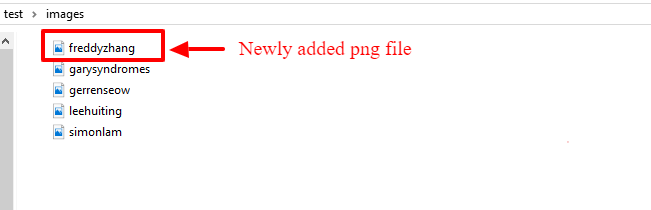
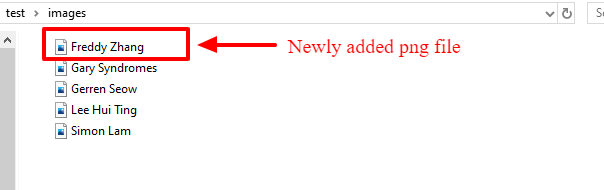
Rebuild pages at 786788541eb873291fc63282420e0648fbc412f4

Changed region(s): [[0.0, 0.0, 0.9536, 0.7368], [0.0, 0.1842, 0.0298, 1.0], [0.9834, 0.0, 1.0, 0.1316]]

diff --git a/DeveloperGuide.html b/DeveloperGuide.html
@@ -595,6 +595,9 @@ The feature comprises of commands namely,</p>
 <li>
 <p><code>FindCommand</code> - Finds information of the required student</p>
 </li>
+<li>
+<p><code>ClearCommand</code> - Deletes all student details from the student list</p>
+</li>
 </ul>
 </div>
 <div class="paragraph">
@@ -772,6 +775,29 @@ method.</p>
 </ol>
 </div>
 </div>
+</div>
+<div class="sect3">
+<h4 id="student-clear-command"><a class="link" href="#student-clear-command">7.1.5. Student Clear command</a></h4>
+<div class="sect4">
+<h5 id="implementation-6"><a class="link" href="#implementation-6">Implementation</a></h5>
+<div class="paragraph">
+<p>The following is a detailed explanation of the operations which <code>StudentFindCommand</code> performs.</p>
+</div>
+<div class="olist arabic">
+<ol class="arabic">
+<li>
+<p>After the successful parsing of the user input, the <code>StudentClearCommand#execute(Model model)</code> method is called.</p>
+</li>
+<li>
+<p>The <code>Model#setTeaPet(ReadOnlyTeaPet teaPet)</code> method is then called which triggers the <code>TeaPet#resetData(ReadOnlyTeaPet newData)</code> method
+and creates a brand new student list to replace the old one.</p>
+</li>
+<li>
+<p>A new <code>CommandResult</code> will be returned with the success message.</p>
+</li>
+</ol>
+</div>
+</div>
 <div class="sect4">
 <h5 id="design-considerations"><a class="link" href="#design-considerations">Design Considerations</a></h5>
 
@@ -785,8 +811,8 @@ method.</p>
 <div class="ulist">
 <ul>
 <li>
-<p>Current implementation of the commands follows the command word syntax, followed by the arguments necessary for execution.
-For example, <code>student add/edit/delete/find/refresh</code>.</p>
+<p>Current implementation of the feature follows just the command word syntax
+For example, <code>student</code>.</p>
 </li>
 </ul>
 </div>
@@ -796,9 +822,8 @@ For example, <code>student add/edit/delete/find/refresh</code>.</p>
 <div class="ulist">
 <ul>
 <li>
-<p>We considered using a whole new command, <code>student refresh</code> to solely refresh and update images of the students. However, we realised
-that it would be more convenient for the user if we just add this functionality into the <code>student</code> command instead as it is able to
-both update the images and display the student list concurrently.</p>
+<p>We considered using the forward slash <code>/</code> before the command word, for example <code>/add</code>. However, we realise that it is redundant
+and will make inputs more tedious and confusing for users.</p>
 </li>
 </ul>
 </div>
@@ -838,7 +863,7 @@ the user expereince as the command will be too long to type.</p>
 </div>
 </div>
 <div class="sect3">
-<h4 id="import-image-feature"><a class="link" href="#import-image-feature">7.1.5. Import image feature</a></h4>
+<h4 id="import-image-feature"><a class="link" href="#import-image-feature">7.1.6. Import image feature</a></h4>
 <div class="paragraph">
 <p>This feature was included in TeaPet to help teachers easily identify the students using their pictures instead of just names.
 This feature utilises the <code>StudentCard#updateImage</code> method to update the images of students.</p>
@@ -848,16 +873,16 @@ This feature utilises the <code>StudentCard#updateImage</code> method to update 
 * <code>DefaultStudentDisplayCommand</code> - Refreshes the student list to show updated images of students and displays the student list.</p>
 </div>
 <div class="paragraph">
-<p>This is further illustrated in the following sequence diagram, which shows the sequence diagram for the StudentRefreshCommand.</p>
+<p>This is further illustrated in the following sequence diagram below.</p>
 </div>
 <div class="imageblock">
 <div class="content">
-<img src="images/ImportImage.png" alt="ImportImage">
+<img src="images/ImportImage.v1.png" alt="ImportImage.v1">
 </div>
 <div class="title">Figure 11. Sequence Diagram for StudentRefreshCommand</div>
 </div>
 <div class="sect4">
-<h5 id="implementation-6"><a class="link" href="#implementation-6">Implementation</a></h5>
+<h5 id="implementation-7"><a class="link" href="#implementation-7">Implementation</a></h5>
 <div class="paragraph">
 <p>The following is a detailed explanation of the operations which <code>DefaultStudentDisplayCommand</code> performs.</p>
 </div>
@@ -877,7 +902,7 @@ the student card.</p>
 <i class="fa icon-note" title="Note"></i>
 </td>
 <td class="content">
-The png file must match the name of the student and must be in all lower case with no whitespaces.
+The name of the png file must match the name of the student.
 </td>
 </tr>
 </table>
@@ -915,8 +940,8 @@ will be called and the student list is now visible on the <code>MainWindow</code
 <div class="ulist">
 <ul>
 <li>
-<p>Current implementation of the feature follows just the command word syntax
-For example, <code>student</code>.</p>
+<p>Current implementation of the commands follows the command word syntax, followed by the arguments necessary for execution.
+For example, <code>student add/edit/delete/find/refresh</code>.</p>
 </li>
 </ul>
 </div>
@@ -926,8 +951,9 @@ For example, <code>student</code>.</p>
 <div class="ulist">
 <ul>
 <li>
-<p>We considered using the forward slash <code>/</code> before the command word, for example <code>/add</code>. However, we realise that it is redundant
-and will make inputs more tedious and confusing for users.</p>
+<p>We considered using a whole new command, <code>student refresh</code> to solely refresh and update images of the students. However, we realised
+that it would be more convenient for the user if we just add this functionality into the <code>student</code> command instead as it is able to
+both update the images and display the student list concurrently.</p>
 </li>
 </ul>
 </div>
@@ -980,7 +1006,7 @@ The feature comprises of four commands namely.</p>
 <div class="sect3">
 <h4 id="admin-display-command"><a class="link" href="#admin-display-command">7.2.1. Admin Display Command</a></h4>
 <div class="sect4">
-<h5 id="implementation-7"><a class="link" href="#implementation-7">Implementation</a></h5>
+<h5 id="implementation-8"><a class="link" href="#implementation-8">Implementation</a></h5>
 <div class="paragraph">
 <p>The following is a detailed explanation of the operations which <code>admin</code> performs.</p>
 </div>
@@ -1024,7 +1050,7 @@ If the wording of the <code>admin</code> command contains error(s), an unknown c
 <div class="sect3">
 <h4 id="admin-dates-command"><a class="link" href="#admin-dates-command">7.2.2. Admin Dates Command</a></h4>
 <div class="sect4">
-<h5 id="implementation-8"><a class="link" href="#implementation-8">Implementation</a></h5>
+<h5 id="implementation-9"><a class="link" href="#implementation-9">Implementation</a></h5>
 <div class="paragraph">
 <p>The following is a detailed explanation of the operations which <code>admin dates</code> performs.</p>
 </div>
@@ -1069,7 +1095,7 @@ will be displayed.
 <div class="sect3">
 <h4 id="admin-save-command"><a class="link" href="#admin-save-command">7.2.3. Admin Save Command</a></h4>
 <div class="sect4">
-<h5 id="implementation-9"><a class="link" href="#implementation-9">Implementation</a></h5>
+<h5 id="implementation-10"><a class="link" href="#implementation-10">Implementation</a></h5>
 <div class="paragraph">
 <p>The following is a detailed explanation of the operations which <code>admin save</code> performs.</p>
 </div>
@@ -1190,7 +1216,7 @@ displayed.
 <div class="sect3">
 <h4 id="admin-delete-command"><a class="link" href="#admin-delete-command">7.2.4. Admin Delete Command</a></h4>
 <div class="sect4">
-<h5 id="implementation-10"><a class="link" href="#implementation-10">Implementation</a></h5>
+<h5 id="implementation-11"><a class="link" href="#implementation-11">Implementation</a></h5>
 <div class="paragraph">
 <p>The following is a detailed explanation of the operations which <code>admin save</code> performs.</p>
 </div>
@@ -1328,7 +1354,7 @@ exposed by the <code>Model</code> interface to perform the related operations (S
 <div class="sect3">
 <h4 id="academics-add-command"><a class="link" href="#academics-add-command">7.3.2. Academics Add Command</a></h4>
 <div class="sect4">
-<h5 id="implementation-11"><a class="link" href="#implementation-11">Implementation</a></h5>
+<h5 id="implementation-12"><a class="link" href="#implementation-12">Implementation</a></h5>
 <div class="paragraph">
 <p>The following is a detailed explanation of the operations which <code>AcademicsAddCommand</code> performs.</p>
 </div>
@@ -1389,7 +1415,7 @@ will be displayed.
 <div class="sect3">
 <h4 id="academics-edit-command"><a class="link" href="#academics-edit-command">7.3.3. Academics Edit Command</a></h4>
 <div class="sect4">
-<h5 id="implementation-12"><a class="link" href="#implementation-12">Implementation</a></h5>
+<h5 id="implementation-13"><a class="link" href="#implementation-13">Implementation</a></h5>
 <div class="paragraph">
 <p>The following is a detailed explanation of the operations which <code>AcademicsEditCommand</code> performs.</p>
 </div>
@@ -1426,7 +1452,7 @@ assessment results in a duplicate assessment in <code>UniqueAssessmentList#asses
 <div class="sect3">
 <h4 id="academics-delete-command"><a class="link" href="#academics-delete-command">7.3.4. Academics Delete Command</a></h4>
 <div class="sect4">
-<h5 id="implementation-13"><a class="link" href="#implementation-13">Implementation</a></h5>
+<h5 id="implementation-14"><a class="link" href="#implementation-14">Implementation</a></h5>
 <div class="paragraph">
 <p>The following is a detailed explanation of the operations which <code>AcademicsDeleteCommand</code> performs.</p>
 </div>
@@ -1460,7 +1486,7 @@ list using the <code>Model#delete(Assessment assessment)</code> method.</p>
 <div class="sect3">
 <h4 id="academics-submit-command"><a class="link" href="#academics-submit-command">7.3.5. Academics Submit Command</a></h4>
 <div class="sect4">
-<h5 id="implementation-14"><a class="link" href="#implementation-14">Implementation</a></h5>
+<h5 id="implementation-15"><a class="link" href="#implementation-15">Implementation</a></h5>
 <div class="paragraph">
 <p>The following is a detailed explanation of the operations which <code>AcademicsSubmitCommand</code> performs.</p>
 </div>
@@ -1509,7 +1535,7 @@ submitted their work, a <code>CommandException</code> will be thrown.</p>
 <div class="sect3">
 <h4 id="academics-mark-command"><a class="link" href="#academics-mark-command">7.3.6. Academics Mark Command</a></h4>
 <div class="sect4">
-<h5 id="implementation-15"><a class="link" href="#implementation-15">Implementation</a></h5>
+<h5 id="implementation-16"><a class="link" href="#implementation-16">Implementation</a></h5>
 <div class="paragraph">
 <p>The following is a detailed explanation of the operations which <code>AcademicsMarkCommand</code> performs.</p>
 </div>
@@ -1632,7 +1658,7 @@ using the method <code>Model#markAssessment(Assessment assessment, List&lt;Strin
 <div class="sect3">
 <h4 id="academics-display-command"><a class="link" href="#academics-display-command">7.3.7. Academics Display Command</a></h4>
 <div class="sect4">
-<h5 id="implementation-16"><a class="link" href="#implementation-16">Implementation</a></h5>
+<h5 id="implementation-17"><a class="link" href="#implementation-17">Implementation</a></h5>
 <div class="paragraph">
 <p>The following is a detailed explanation of the operations which <code>AcademicsDisplayCommand</code> performs.</p>
 </div>
@@ -1688,7 +1714,7 @@ If the wording of the <code>academics</code> command contains error(s), an unkno
 <div class="sect3">
 <h4 id="academics-export-command"><a class="link" href="#academics-export-command">7.3.8. Academics Export Command</a></h4>
 <div class="sect4">
-<h5 id="implementation-17"><a class="link" href="#implementation-17">Implementation</a></h5>
+<h5 id="implementation-18"><a class="link" href="#implementation-18">Implementation</a></h5>
 <div class="paragraph">
 <p>The following is a detailed explanation of the operations which <code>AcademicsExportCommand</code> performs.</p>
 </div>
@@ -2069,7 +2095,7 @@ using the <code>VEvent</code> type class. Only the <code>Storage</code> componen
 <div class="sect3">
 <h4 id="schedule-add-command"><a class="link" href="#schedule-add-command">7.5.3. Schedule Add Command</a></h4>
 <div class="sect4">
-<h5 id="implementation-18"><a class="link" href="#implementation-18">Implementation</a></h5>
+<h5 id="implementation-19"><a class="link" href="#implementation-19">Implementation</a></h5>
 <div class="paragraph">
 <p>The following is a detailed explanation which <code>schedule add</code> performs.</p>
 </div>
@@ -3524,4 +3550,4 @@ Expected: An error message is shown as there should be no arguments passed into 
 </div>
 </div>
 </div>
-</div></div><div id="footer"><div class="container"><div id="footer-text">Last updated 2020-04-12 05:37:13 UTC</div></div></div></body></html>
+</div></div><div id="footer"><div class="container"><div id="footer-text">Last updated 2020-04-12 07:36:02 UTC</div></div></div></body></html>

diff --git a/UserGuide.html b/UserGuide.html
@@ -1807,11 +1807,9 @@ The following steps will help you upload photos of your students into the studen
 </td>
 <td class="content">
 The filename of your image must of this format:<br>
-1. Filename must be of the same name as the student.<br>
-2. Filename is all lowercase.<br>
-3. Filename have no whitespaces.<br>
+1. Filename of the image must be the same as the student.<br>
 4. File is in .png format.<br>
-For example, a student with name <strong>Simon Lam</strong> must have a image file with name <strong>simonlam</strong> in .png format.
+For example, a student with name <strong>Simon Lam</strong> must have a image file with name <strong>Simon Lam</strong> in .png format.
 </td>
 </tr>
 </table>
@@ -1840,6 +1838,19 @@ For ideal optimization of the image, its dimensions for its length and width sho
 <div class="paragraph">
 <p><strong>Step 3</strong>. Type in the <code>student</code> command in the user interface. TeaPet will update the images and
 now you can see pictures of your students in your student list!</p>
+</div>
+<div class="admonitionblock warning">
+<table>
+<tr>
+<td class="icon">
+<i class="fa icon-warning" title="Warning"></i>
+</td>
+<td class="content">
+Editing the name of the student will change the student image back to the default image. To solve this, you have to edit
+the png file in the Image folder as well after you edit the name of the student and then enter the <code>student</code> command.
+</td>
+</tr>
+</table>
 </div>
 <div class="imageblock">
 <div class="content">
@@ -2336,4 +2347,4 @@ command. The backup feature will be coming soon in the near future.</p>
 </ol>
 </div>
 </div>
-</div></div><div id="footer"><div class="container"><div id="footer-text">Last updated 2020-04-12 05:37:13 UTC</div></div></div></body></html>
+</div></div><div id="footer"><div class="container"><div id="footer-text">Last updated 2020-04-12 07:36:02 UTC</div></div></div></body></html>

diff --git a/tutorials/RemovingFields.html b/tutorials/RemovingFields.html
@@ -175,4 +175,4 @@ While keeping the <code>address</code> field in the json files does not cause th
 <p>You can go through each individual <code>json</code> file and manually remove the <code>address</code> field.</p>
 </div>
 </div>
-</div></div><div id="footer"><div class="container"><div id="footer-text">Last updated 2020-04-12 05:37:13 UTC</div></div></div></body></html>
+</div></div><div id="footer"><div class="container"><div id="footer-text">Last updated 2020-04-12 07:36:02 UTC</div></div></div></body></html>

diff --git a/Testing.html b/Testing.html
@@ -90,4 +90,4 @@ e.g. <code>seedu.address.logic.LogicManagerTest</code></p>
 <div class="title">Figure 1. <code>Accessibility</code> permission is granted to <code>IntelliJ IDEA</code></div>
 </div>
 </div>
-</div></div><div id="footer"><div class="container"><div id="footer-text">Last updated 2020-04-12 05:37:13 UTC</div></div></div></body></html>
+</div></div><div id="footer"><div class="container"><div id="footer-text">Last updated 2020-04-12 07:36:02 UTC</div></div></div></body></html>

diff --git a/team/garysyndromes.html b/team/garysyndromes.html
@@ -163,4 +163,4 @@ written in Java.</p>
 <p><em>{Optionally, you may include other projects in your portfolio.}</em></p>
 </div>
 </div>
-</div></div><div id="footer"><div class="container"><div id="footer-text">Last updated 2020-04-12 05:37:13 UTC</div></div></div></body></html>
+</div></div><div id="footer"><div class="container"><div id="footer-text">Last updated 2020-04-12 07:36:02 UTC</div></div></div></body></html>

diff --git a/team/tingalinga.html b/team/tingalinga.html
@@ -163,4 +163,4 @@ written in Java.</p>
 <p><em>{Optionally, you may include other projects in your portfolio.}</em></p>
 </div>
 </div>
-</div></div><div id="footer"><div class="container"><div id="footer-text">Last updated 2020-04-12 05:37:13 UTC</div></div></div></body></html>
+</div></div><div id="footer"><div class="container"><div id="footer-text">Last updated 2020-04-12 07:36:02 UTC</div></div></div></body></html>

diff --git a/team/yuanyu97.html b/team/yuanyu97.html
@@ -158,4 +158,4 @@ Now, editing one field of the student still updates that specific field, but the
 </tbody>
 </table>
 </div>
-</div></div><div id="footer"><div class="container"><div id="footer-text">Last updated 2020-04-12 05:37:13 UTC</div></div></div></body></html>
+</div></div><div id="footer"><div class="container"><div id="footer-text">Last updated 2020-04-12 07:36:02 UTC</div></div></div></body></html>

diff --git a/LearningOutcomes.html b/LearningOutcomes.html
@@ -474,4 +474,4 @@ of storages, but different number of storages (e.g. save to both a text file and
 </div>
 </div>
 </div>
-</div></div><div id="footer"><div class="container"><div id="footer-text">Last updated 2020-04-12 05:37:13 UTC</div></div></div></body></html>
+</div></div><div id="footer"><div class="container"><div id="footer-text">Last updated 2020-04-12 07:36:02 UTC</div></div></div></body></html>

diff --git a/SettingUp.html b/SettingUp.html
@@ -180,4 +180,4 @@ Having both Travis and AppVeyor ensures your App works on both Unix-based platfo
 </div>
 </div>
 </div>
-</div></div><div id="footer"><div class="container"><div id="footer-text">Last updated 2020-04-12 05:37:13 UTC</div></div></div></body></html>
+</div></div><div id="footer"><div class="container"><div id="footer-text">Last updated 2020-04-12 07:36:02 UTC</div></div></div></body></html>

diff --git a/UsingCoveralls.html b/UsingCoveralls.html
@@ -111,4 +111,4 @@ If you have not set up Travis CI, see <a href="UsingTravis.html">UsingTravis.ado
 </ol>
 </div>
 </div>
-</div></div><div id="footer"><div class="container"><div id="footer-text">Last updated 2020-04-12 05:37:13 UTC</div></div></div></body></html>
+</div></div><div id="footer"><div class="container"><div id="footer-text">Last updated 2020-04-12 07:36:02 UTC</div></div></div></body></html>

diff --git a/UsingGradle.html b/UsingGradle.html
@@ -228,4 +228,4 @@ See <code>build.gradle</code> &#8594; <code>allprojects</code> &#8594; <code>dep
 </ul>
 </div>
 </div>
-</div></div><div id="footer"><div class="container"><div id="footer-text">Last updated 2020-04-12 05:37:13 UTC</div></div></div></body></html>
+</div></div><div id="footer"><div class="container"><div id="footer-text">Last updated 2020-04-12 07:36:02 UTC</div></div></div></body></html>

diff --git a/UsingNetlify.html b/UsingNetlify.html
@@ -138,4 +138,4 @@ The publish directory is the directory in which the built HTML documentation res
 </ol>
 </div>
 </div>
-</div></div><div id="footer"><div class="container"><div id="footer-text">Last updated 2020-04-12 05:37:13 UTC</div></div></div></body></html>
+</div></div><div id="footer"><div class="container"><div id="footer-text">Last updated 2020-04-12 07:36:02 UTC</div></div></div></body></html>
